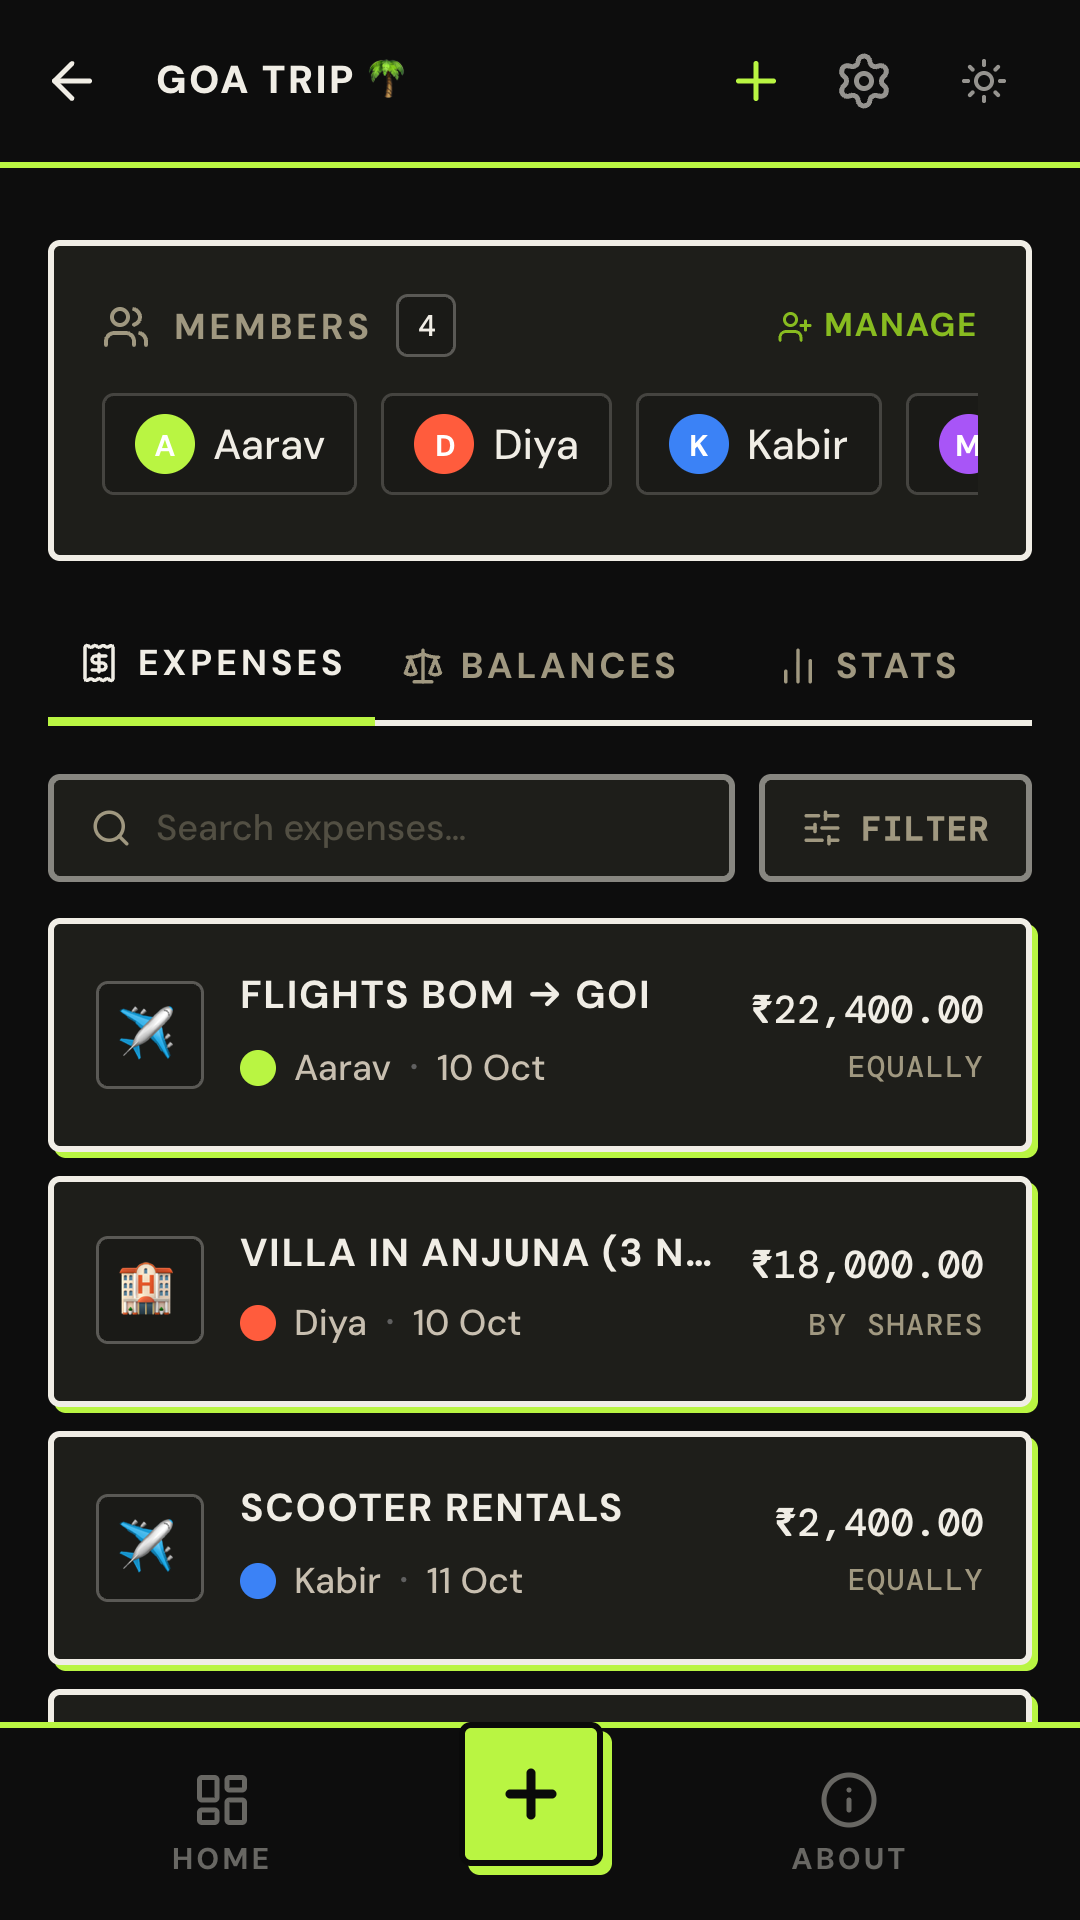
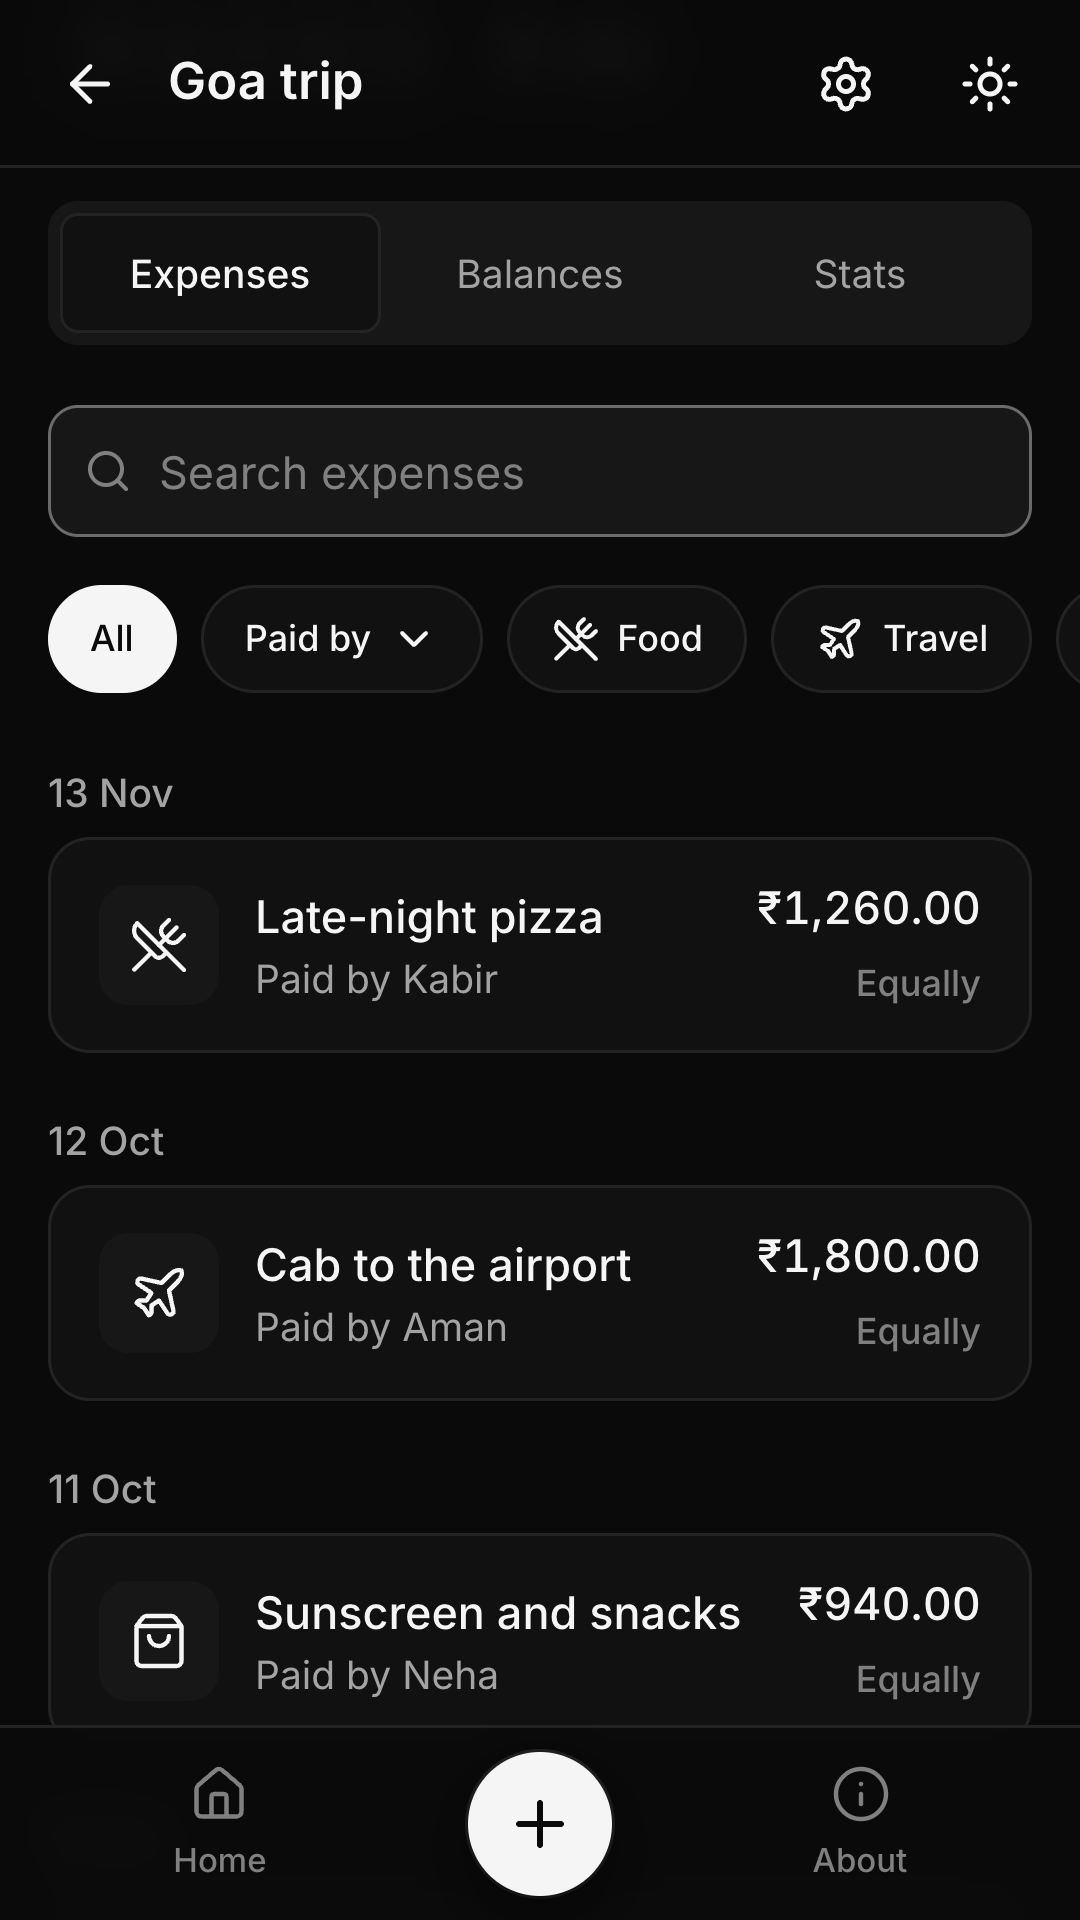
Prepare Play release 1.0.2 (versionCode 3)
bubblewrap update (1.27.0) regenerated the launcher icons, maskable
icons and splash from the live banknote icons, and bumped the version.
Store listing assets retaken from the monochrome UI: 6 screenshots
(1080x1920, dark), feature graphic (1024x500) and the 512px store icon.
Signing config and package ID are unchanged.

diff --git a/store-assets/feature-graphic.html b/store-assets/feature-graphic.html
@@ -21,8 +21,8 @@
   .phone { position: absolute; width: 228px; height: 405px; border: 1px solid #333333; border-radius: 28px; overflow: hidden;
     background: #111111; box-shadow: 0 24px 60px rgb(0 0 0 / 0.6); }
   .phone img { width: 100%; display: block; }
-  .p1 { left: 620px; top: 58px; }
-  .p2 { left: 772px; top: 120px; }
+  .p1 { left: 620px; top: 30px; }
+  .p2 { left: 772px; top: 68px; }
 </style>
 </head>
 <body>
